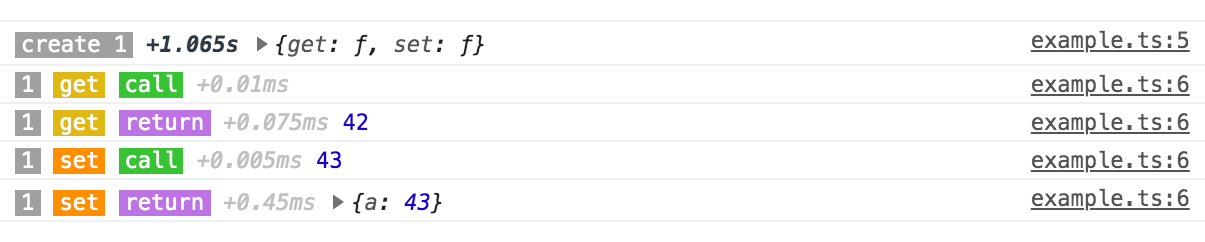
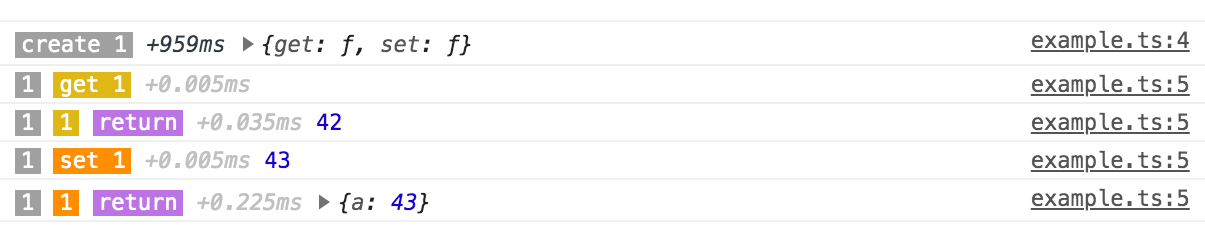
docs(readme): update example and screenshot

diff --git a/.github/README.md b/.github/README.md
@@ -32,9 +32,9 @@ Assuming you have Antiutils installed,
 
 ```ts
 import { log } from '1log';
-import { applyPipe, objectProp, rootView } from 'antiutils';
+import { pipe, objectProp, rootView } from 'antiutils';
 
-const view = applyPipe(rootView({ a: 42 }), objectProp('a'), log);
+const view = pipe(rootView({ a: 42 }), objectProp('a'), log);
 view.set(view.get() + 1);
 ```
 
